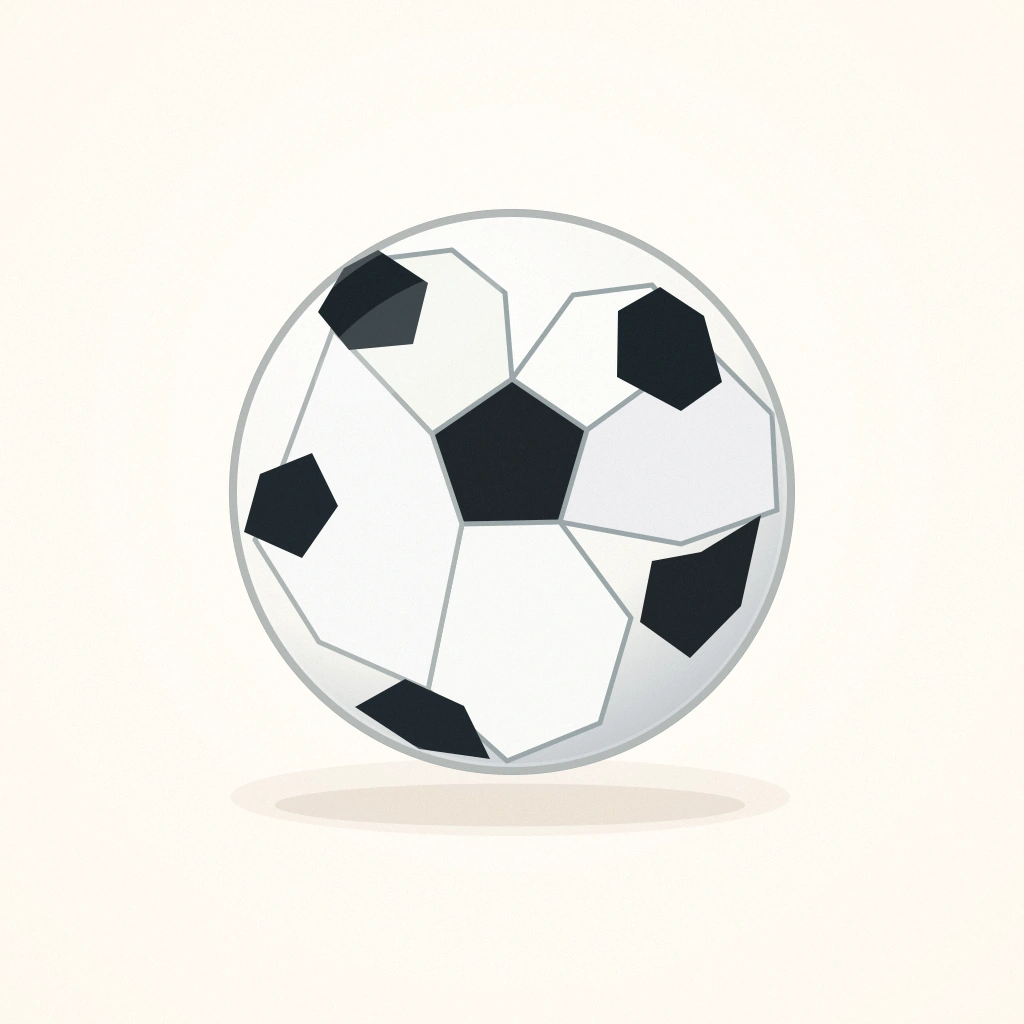
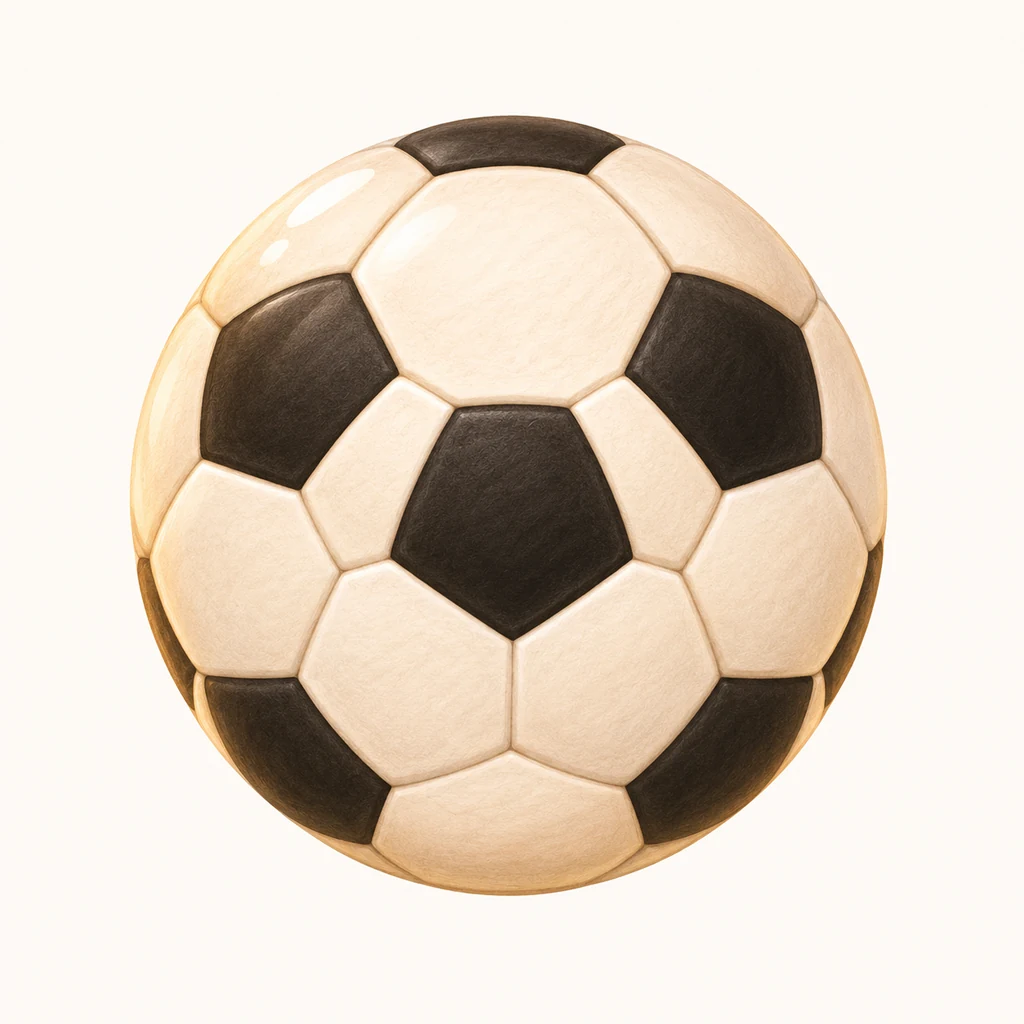
v8: neue Bilder für Ball und Schwamm (Rätsel Spur 12), Bildprompts erledigt
Claude-Session: https://claude.ai/code/session_01XbiCnECXMiu6RfpngsWtJQ

diff --git a/02_design/BILDER_PROMPTS_v8.html b/02_design/BILDER_PROMPTS_v8.html
@@ -35,29 +35,15 @@ pre { white-space:pre-wrap; word-break:break-word; background:var(--pre); border
 :root[data-theme="dark"] .redo { background:#3A1F24; color:#FFC9C0; }
 </style></head><body><main>
 <h1>Картинки v8: что ещё нужно</h1>
-<p class="lead">Осталось 2: 2 переделать и 0 ещё не было. Готовые 27 уже в приложении и отсюда убраны. Нажмите «Скопировать промт», вставьте в генератор, приложите указанные эталоны из <code>assets/reference/</code> и <code>assets/illustrationen/</code>. Сохраните под именем из заголовка карточки и пришлите — разложу и вставлю в приложение.</p>
+<p class="lead">Осталось 0: 0 переделать и 0 ещё не было. Готовые 29 уже в приложении и отсюда убраны. Нажмите «Скопировать промт», вставьте в генератор, приложите указанные эталоны из <code>assets/reference/</code> и <code>assets/illustrationen/</code>. Сохраните под именем из заголовка карточки и пришлите — разложу и вставлю в приложение.</p>
 <ul class="rules">
 <li>Сначала карточки с красной плашкой «Почему переделать»: там сказано, что было не так.</li>
 <li><b>Стиль:</b> как остальные картинки книги — мягкая акварель и карандаш. Не плоская векторная графика и не глянцевое 3D.</li>
 <li>На предметах и детях фон светлый и ровный — вырезаю сама. У птиц фон ровный голубой: у сороки белое брюхо, на белом фоне его не вырезать.</li>
 <li>Нигде нет букв и цифр. Галочка «готово» запоминается только в этом браузере.</li>
 </ul>
-<nav><a href="#g0">Переделать · Глава 2 <small>2</small></a><span id="stand"></span></nav>
-<section><h2 id="g0">Переделать · Глава 2</h2><article class="card" id="p1">
-  <header><span class="nr">1</span><code class="fn">objekte/raetsel_ball.webp</code>
-  <label class="done"><input type="checkbox" data-k="objekte/raetsel_ball"> готово</label></header>
-  <dl><dt>Где</dt><dd>Spur 12 — загадка Оскара «жёлтое, круглое, с дырками, для мыши»</dd><dt>Приложить</dt><dd>objekte_1_mond + objekte_3_basteln (стиль предметов)</dd><dt>Формат</dt><dd>1:1</dd></dl><p class="redo"><b>Почему переделать:</b> Мяч нарисован криво: пятна разной формы, выглядит сломанным. Нужен простой аккуратный мяч с ровным узором.</p>
-  <pre>Use the attached images as the exact reference for characters and style. Same children&#x27;s picture-book style. Plain warm white background, no text, no letters, no numbers, no stars. Every item clearly separated from the others with empty space around it, so it can be cut out. Soft hand-painted picture-book look (watercolor and colored pencil) like the attached images – NOT flat vector clip-art, no glossy 3D look.
-One object, centered, slightly from above: a classic football (soccer ball), drawn simply and cleanly like in a children&#x27;s picture book: a perfectly round white ball with a REGULAR pattern of black pentagons, soft shading, no distorted or broken patches.</pre>
-  <button class="copy" type="button">Скопировать промт</button>
-</article><article class="card" id="p2">
-  <header><span class="nr">2</span><code class="fn">objekte/raetsel_schwamm.webp</code>
-  <label class="done"><input type="checkbox" data-k="objekte/raetsel_schwamm"> готово</label></header>
-  <dl><dt>Где</dt><dd>Spur 12 — загадка Оскара «жёлтое, круглое, с дырками, для мыши»</dd><dt>Приложить</dt><dd>objekte_1_mond + objekte_3_basteln (стиль предметов)</dd><dt>Формат</dt><dd>1:1</dd></dl><p class="redo"><b>Почему переделать:</b> На губке не видно дырок (только мелкие пузырьки), а подсказка в загадке — «с дырками». Нужны крупные тёмные круглые дырки.</p>
-  <pre>Use the attached images as the exact reference for characters and style. Same children&#x27;s picture-book style. Plain warm white background, no text, no letters, no numbers, no stars. Every item clearly separated from the others with empty space around it, so it can be cut out. Soft hand-painted picture-book look (watercolor and colored pencil) like the attached images – NOT flat vector clip-art, no glossy 3D look.
-One object, centered, slightly from above: a yellow sponge, a rectangular block with rounded corners, soft and porous, with MANY clearly visible dark round HOLES of different sizes all over its surface (holes like in Swiss cheese, not tiny dots or bubbles).</pre>
-  <button class="copy" type="button">Скопировать промт</button>
-</article></section>
+<nav><span id="stand"></span></nav>
+
 </main>
 <script>
 const KEY = 'lesefall.bilder.v8';

diff --git a/02_design/bilder_prompts_v8.py b/02_design/bilder_prompts_v8.py
@@ -179,7 +179,7 @@ The same safe, now open: the door swings open, warm golden light streams out; in
 
 # ---------------------------------------------------------------- Stand der Bilder
 # Fertig und im Repo (assets/illustrationen/...): erscheinen nicht mehr auf der Seite.
-FERTIG = {"kinder/ida", "kinder/nele", "objekte/fuchs_puppe", "objekte/koenig_puppe", "objekte/pappbaum", "objekte/papierstapel",
+FERTIG = {"objekte/raetsel_ball", "objekte/raetsel_schwamm", "kinder/ida", "kinder/nele", "objekte/fuchs_puppe", "objekte/koenig_puppe", "objekte/pappbaum", "objekte/papierstapel",
           "objekte/raetsel_kaese", "objekte/raetsel_keks", "objekte/raetsel_sonne", "objekte/raetsel_zitrone",
           "plakat", "baum", "baum_nest", "nest_finale", "tresor_zu", "tresor_auf",
           "k1_s1", "kinder/lina", "kinder/tom", "kinder/emil", "objekte/mond_hinten_feucht", "objekte/mond_hinten_faden",
